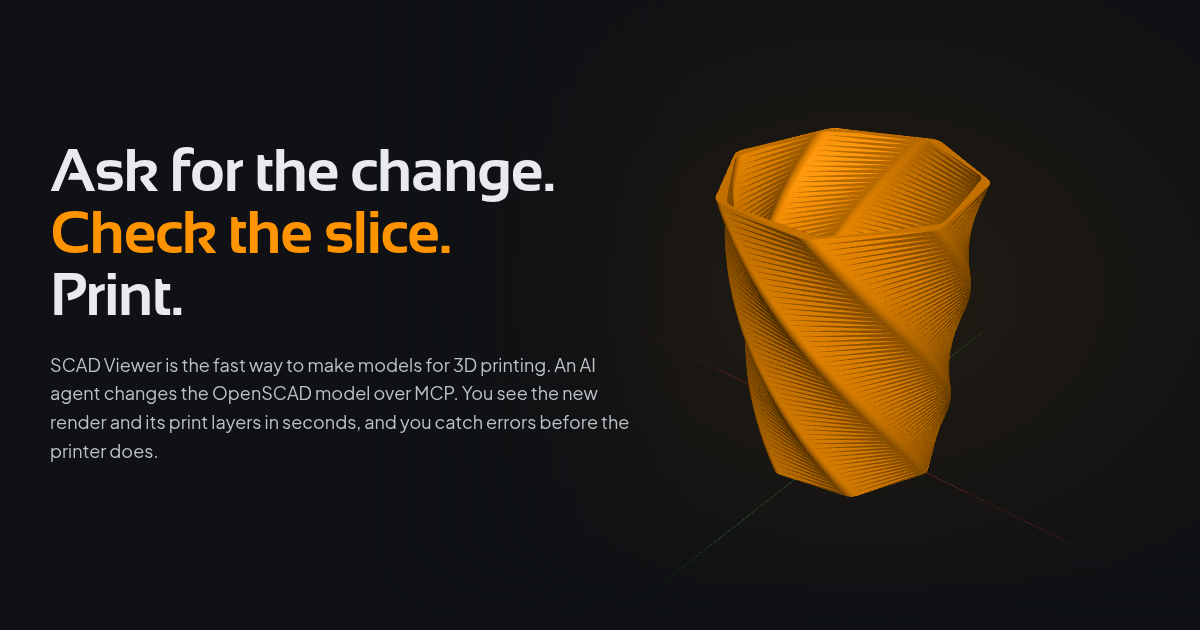
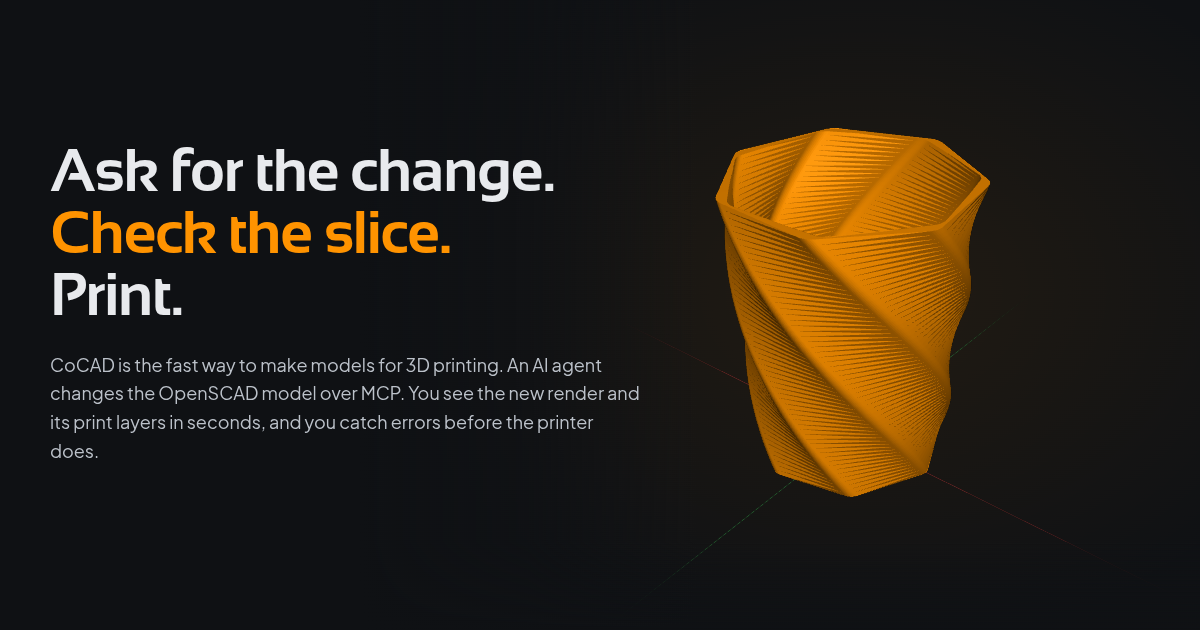
Website: rename to CoCAD, cocad.cgeosoft.com

Changed region(s): [[0.0308, 0.573, 0.5242, 0.6333], [0.0308, 0.6635, 0.5242, 0.7238]]

diff --git a/extras/website/public/index.html b/extras/website/public/index.html
@@ -3,18 +3,18 @@
 <head>
   <meta charset="UTF-8">
   <meta name="viewport" content="width=device-width, initial-scale=1.0">
-  <title>SCAD Viewer - From prompt to print-ready model</title>
+  <title>CoCAD - From prompt to print-ready model</title>
   <meta name="description" content="A free desktop app for OpenSCAD. An AI agent changes the model over MCP, you check the slice in seconds, then render or export. The fast way to make models for 3D printing.">
-  <link rel="canonical" href="https://scadviewer.cgeosoft.com/">
+  <link rel="canonical" href="https://cocad.cgeosoft.com/">
   <link rel="icon" type="image/svg+xml" href="assets/app-icon.svg">
   <link rel="apple-touch-icon" href="assets/icon-512.png">
   <meta name="theme-color" content="#0f1114">
-  <meta property="og:title" content="SCAD Viewer - Ask for the change. Check the slice. Print.">
+  <meta property="og:title" content="CoCAD - Ask for the change. Check the slice. Print.">
   <meta property="og:description" content="An AI agent changes the OpenSCAD model over MCP. You see the render and the slice in seconds. Free, MIT, for Linux, Windows and macOS.">
   <link rel="alternate" type="text/plain" href="/llms.txt" title="llms.txt">
   <meta property="og:type" content="website">
-  <meta property="og:url" content="https://scadviewer.cgeosoft.com/">
-  <meta property="og:image" content="https://scadviewer.cgeosoft.com/assets/og.png">
+  <meta property="og:url" content="https://cocad.cgeosoft.com/">
+  <meta property="og:image" content="https://cocad.cgeosoft.com/assets/og.png">
   <meta name="twitter:card" content="summary_large_image">
   <link rel="preconnect" href="https://fonts.googleapis.com">
   <link rel="preconnect" href="https://fonts.gstatic.com" crossorigin>
@@ -25,10 +25,10 @@
   {
     "@context": "https://schema.org",
     "@type": "SoftwareApplication",
-    "name": "SCAD Viewer",
+    "name": "CoCAD",
     "applicationCategory": "DesignApplication",
     "operatingSystem": "Linux, Windows, macOS",
-    "url": "https://scadviewer.cgeosoft.com/",
+    "url": "https://cocad.cgeosoft.com/",
     "license": "https://opensource.org/licenses/MIT",
     "offers": { "@type": "Offer", "price": "0", "priceCurrency": "EUR" }
   }
@@ -37,9 +37,9 @@
 <body>
   <header class="site-header">
     <div class="container nav-container">
-      <a href="/" class="brand-link" aria-label="SCAD Viewer home">
+      <a href="/" class="brand-link" aria-label="CoCAD home">
         <img src="assets/app-icon.svg" alt="" class="brand-icon" width="28" height="28">
-        <span class="brand-name">SCAD Viewer</span>
+        <span class="brand-name">CoCAD</span>
       </a>
       <nav class="main-nav" aria-label="Primary">
         <a href="#loop">The loop</a>
@@ -47,7 +47,7 @@
         <a href="#tour">Tour</a>
         <a href="#features">Features</a>
         <a href="#faq">FAQ</a>
-        <a href="https://github.com/cgeosoft/scad-viewer" target="_blank" rel="noopener noreferrer">GitHub</a>
+        <a href="https://github.com/cgeosoft/cocad" target="_blank" rel="noopener noreferrer">GitHub</a>
       </nav>
       <div class="nav-actions">
         <a href="#downloads" class="btn btn-primary">Download</a>
@@ -64,7 +64,7 @@
         <div class="hero-copy">
           <a class="hero-new" href="#mcp"><span class="pill pill-accent">MCP server</span>Your agent drives the window</a>
           <h1 class="hero-headline">Ask for the change.<br><em>Check the slice.</em><br>Print.</h1>
-          <p class="hero-lede">SCAD Viewer is the fast way to make models for 3D printing. An AI agent changes the OpenSCAD model over MCP. You see the new render and its print layers in seconds, and you catch errors before the printer does.</p>
+          <p class="hero-lede">CoCAD is the fast way to make models for 3D printing. An AI agent changes the OpenSCAD model over MCP. You see the new render and its print layers in seconds, and you catch errors before the printer does.</p>
           <div class="hero-cta">
             <div class="hero-buttons">
               <a href="#downloads" class="btn btn-big" id="primary-download-btn">
@@ -100,7 +100,7 @@
         <div class="loop-head reveal">
           <p class="label"><span class="dot"></span>The loop</p>
           <h2 class="big-title">One prompt.<br>Render, slice, <em>next prompt.</em></h2>
-          <p class="lede">Most of the time on a printable model goes to small changes and checks. SCAD Viewer keeps that loop short. Pick a prompt and watch one turn.</p>
+          <p class="lede">Most of the time on a printable model goes to small changes and checks. CoCAD keeps that loop short. Pick a prompt and watch one turn.</p>
         </div>
         <ol class="loop-stages mono reveal" aria-label="Stages of one turn">
           <li class="stage" data-loop-stage><span class="stage-num">1</span><span class="stage-name">Ask</span><span class="stage-meta">The agent edits the model</span><i class="stage-fill"></i></li>
@@ -120,7 +120,7 @@
             </div>
             <div class="view-stage">
               <canvas role="img" aria-label="Live 3D view of the example model. Drag to orbit. Click, then use the wheel to zoom."></canvas>
-              <img class="view-fallback" src="assets/img/screen-slice.webp" alt="SCAD Viewer with the slice preview of the honeycomb tray example." loading="lazy">
+              <img class="view-fallback" src="assets/img/screen-slice.webp" alt="CoCAD with the slice preview of the honeycomb tray example." loading="lazy">
               <div class="view-presets" role="group" aria-label="Camera">
                 <button type="button" class="view-btn" data-view="iso">Iso</button>
                 <button type="button" class="view-btn" data-view="top">Top</button>
@@ -196,7 +196,7 @@
         <div class="reveal">
           <p class="label"><span class="dot"></span>MCP server <span class="pill pill-accent" data-since="0.3.0">Next release</span></p>
           <h2 class="big-title">Your agent works<br>in the open window.</h2>
-          <p class="lede">The client starts <code class="inline">scad-viewer mcp</code>. Each tool call goes to the open window, so you see every change as it happens.</p>
+          <p class="lede">The client starts <code class="inline">cocad mcp</code>. Each tool call goes to the open window, so you see every change as it happens.</p>
         </div>
         <div class="mcp-grid">
           <div class="mcp-setup reveal">
@@ -204,8 +204,8 @@
               <p class="code-title mono">claude_desktop_config.json</p>
               <pre><code>{
   "mcpServers": {
-    "scad-viewer": {
-      "command": "scad-viewer",
+    "cocad": {
+      "command": "cocad",
       "args": ["mcp"]
     }
   }
@@ -213,11 +213,11 @@
             </div>
             <div class="card code-card">
               <p class="code-title mono">Claude Code</p>
-              <pre><code>claude mcp add scad-viewer -- scad-viewer mcp</code></pre>
+              <pre><code>claude mcp add cocad -- cocad mcp</code></pre>
             </div>
             <figure class="shot">
               <button type="button" class="zoom" data-zoom="assets/img/screen-agent.webp" aria-label="Enlarge screenshot">
-                <img src="assets/img/screen-agent.webp" width="1120" height="700" alt="SCAD Viewer with the vase example. A message in the view says that MCP changed sides, twist and taper." loading="lazy" decoding="async">
+                <img src="assets/img/screen-agent.webp" width="1120" height="700" alt="CoCAD with the vase example. A message in the view says that MCP changed sides, twist and taper." loading="lazy" decoding="async">
               </button>
               <figcaption class="mono">The window names each change from the agent.</figcaption>
             </figure>
@@ -269,7 +269,7 @@
         <button type="button" role="tab" class="tour-tab" data-shot="assets/img/screen-export.webp" data-text="Mesh check and export. Size, volume, triangles and open edges, then STL, 3MF or STEP.">Export</button>
       </div>
       <div class="tour-frame reveal">
-        <img data-tour-img src="assets/img/screen-slice.webp" width="1600" height="1040" alt="SCAD Viewer screenshot." loading="lazy" decoding="async">
+        <img data-tour-img src="assets/img/screen-slice.webp" width="1600" height="1040" alt="CoCAD screenshot." loading="lazy" decoding="async">
       </div>
       <p class="tour-text mono" data-tour-text aria-live="polite">Slice preview. Walls, infill and skin as round strands, with a layer slider and a time, length and weight estimate.</p>
     </section>
@@ -288,7 +288,7 @@
       </div>
       <div class="card code-card reveal">
         <p class="code-title mono">Command line</p>
-        <pre><code>scad-viewer photo model.scad -o model.png --size 1600x1200 --samples 256 --color ff9300 --finish satin --layer-lines</code></pre>
+        <pre><code>cocad photo model.scad -o model.png --size 1600x1200 --samples 256 --color ff9300 --finish satin --layer-lines</code></pre>
       </div>
     </section>
 
@@ -314,7 +314,7 @@
       <div class="reveal">
         <p class="label">Downloads</p>
         <h2 class="big-title">Get it.</h2>
-        <p class="lede">Free, MIT licensed, built from the <a href="https://github.com/cgeosoft/scad-viewer" target="_blank" rel="noopener noreferrer">public source</a>. <span class="latest-version-text mono"></span></p>
+        <p class="lede">Free, MIT licensed, built from the <a href="https://github.com/cgeosoft/cocad" target="_blank" rel="noopener noreferrer">public source</a>. <span class="latest-version-text mono"></span></p>
       </div>
       <div class="card dl-rows reveal">
         <div class="dl-row" id="card-linux">
@@ -337,7 +337,7 @@
         <p class="label"><span class="dot"></span>You also need OpenSCAD</p>
         <p class="gate-text">Install a <a href="https://openscad.org/downloads.html#snapshots" target="_blank" rel="noopener noreferrer">development snapshot</a>. It has the Manifold backend. The 2021 release also works, but a model that takes 13 s with CGAL can take 0.3 s with Manifold.</p>
       </div>
-      <p class="caption mono">Older versions and release notes are on <a href="https://github.com/cgeosoft/scad-viewer/releases" target="_blank" rel="noopener noreferrer">GitHub releases</a>.</p>
+      <p class="caption mono">Older versions and release notes are on <a href="https://github.com/cgeosoft/cocad/releases" target="_blank" rel="noopener noreferrer">GitHub releases</a>.</p>
     </section>
 
     <section class="section container faq" id="faq">
@@ -348,7 +348,7 @@
       <div class="card faq-list reveal">
         <details open>
           <summary>Which agents work with it?</summary>
-          <p>Claude Desktop, Claude Code and other MCP clients. The client talks to <code class="inline">scad-viewer mcp</code> and that process talks to the open window.</p>
+          <p>Claude Desktop, Claude Code and other MCP clients. The client talks to <code class="inline">cocad mcp</code> and that process talks to the open window.</p>
         </details>
         <details>
           <summary>Can the agent change the geometry, or only the parameters?</summary>
@@ -364,7 +364,7 @@
         </details>
         <details>
           <summary>Does my model leave my computer?</summary>
-          <p>SCAD Viewer has no account, no server and no telemetry. The MCP server listens on 127.0.0.1 only. Your AI client sends what it reads to its own model provider, so pick the client with that in mind. See the <a href="/privacy/">privacy policy</a>.</p>
+          <p>CoCAD has no account, no server and no telemetry. The MCP server listens on 127.0.0.1 only. Your AI client sends what it reads to its own model provider, so pick the client with that in mind. See the <a href="/privacy/">privacy policy</a>.</p>
         </details>
         <details>
           <summary>Do I need an agent?</summary>
@@ -380,11 +380,11 @@
 
   <footer class="site-footer">
     <div class="container status-bar mono">
-      <p>scad-viewer <span class="footer-version"></span> &middot; &copy; <span id="current-year">2026</span> <a href="https://cgeosoft.com">cgeosoft</a> &middot; MIT</p>
+      <p>cocad <span class="footer-version"></span> &middot; &copy; <span id="current-year">2026</span> <a href="https://cgeosoft.com">cgeosoft</a> &middot; MIT</p>
       <nav aria-label="Footer">
-        <a href="https://github.com/cgeosoft/scad-viewer" target="_blank" rel="noopener noreferrer">source</a>
-        <a href="https://github.com/cgeosoft/scad-viewer/issues" target="_blank" rel="noopener noreferrer">issues</a>
-        <a href="https://github.com/cgeosoft/scad-viewer/releases" target="_blank" rel="noopener noreferrer">releases</a>
+        <a href="https://github.com/cgeosoft/cocad" target="_blank" rel="noopener noreferrer">source</a>
+        <a href="https://github.com/cgeosoft/cocad/issues" target="_blank" rel="noopener noreferrer">issues</a>
+        <a href="https://github.com/cgeosoft/cocad/releases" target="_blank" rel="noopener noreferrer">releases</a>
         <a href="/privacy/">privacy</a>
         <button type="button" class="link-btn" data-cookie-settings hidden>cookies</button>
       </nav>

diff --git a/extras/website/public/privacy/index.html b/extras/website/public/privacy/index.html
@@ -3,9 +3,9 @@
 <head>
   <meta charset="UTF-8">
   <meta name="viewport" content="width=device-width, initial-scale=1.0">
-  <title>Privacy Policy - SCAD Viewer</title>
-  <meta name="description" content="What the SCAD Viewer website collects, how optional PostHog analytics work, and how to change your choice. The desktop app sends no data.">
-  <link rel="canonical" href="https://scadviewer.cgeosoft.com/privacy/">
+  <title>Privacy Policy - CoCAD</title>
+  <meta name="description" content="What the CoCAD website collects, how optional PostHog analytics work, and how to change your choice. The desktop app sends no data.">
+  <link rel="canonical" href="https://cocad.cgeosoft.com/privacy/">
   <link rel="icon" type="image/svg+xml" href="/assets/app-icon.svg">
   <meta name="theme-color" content="#0f1114">
   <link rel="preconnect" href="https://fonts.googleapis.com">
@@ -16,9 +16,9 @@
 <body data-no-consent-prompt>
   <header class="site-header">
     <div class="container nav-container">
-      <a href="/" class="brand-link" aria-label="SCAD Viewer home">
+      <a href="/" class="brand-link" aria-label="CoCAD home">
         <img src="/assets/app-icon.svg" alt="" class="brand-icon" width="28" height="28">
-        <span class="brand-name">SCAD Viewer</span>
+        <span class="brand-name">CoCAD</span>
       </a>
       <div class="nav-actions legal-nav"><a href="/" class="btn">Back to the site</a></div>
     </div>
@@ -74,8 +74,8 @@
         <table>
           <thead><tr><th>Name</th><th>Purpose</th><th>Kept for</th></tr></thead>
           <tbody>
-            <tr><td class="mono">scadviewer_consent_v1</td><td>Your analytics choice</td><td>12 months, then the site asks again</td></tr>
-            <tr><td class="mono">scadviewer_release_v1</td><td>Latest version data, so the site asks GitHub less often</td><td>Replaced after 10 minutes</td></tr>
+            <tr><td class="mono">cocad_consent_v1</td><td>Your analytics choice</td><td>12 months, then the site asks again</td></tr>
+            <tr><td class="mono">cocad_release_v1</td><td>Latest version data, so the site asks GitHub less often</td><td>Replaced after 10 minutes</td></tr>
             <tr><td class="mono">ph_*, __ph_*</td><td>Random PostHog ID and its opt-in state. Only after you accept</td><td>Until you decline or clear the storage</td></tr>
           </tbody>
         </table>
@@ -90,7 +90,7 @@
 
     <section id="app">
       <h2>The desktop app</h2>
-      <p>SCAD Viewer makes no connection to a server of ours. It has no telemetry, no update check and no account. Your models stay on your computer.</p>
+      <p>CoCAD makes no connection to a server of ours. It has no telemetry, no update check and no account. Your models stay on your computer.</p>
       <p>The MCP server listens on 127.0.0.1 only. If you connect an AI client, that client sends what it reads to its own model provider. The policy of that provider applies.</p>
     </section>
 
@@ -110,7 +110,7 @@
       <p>&copy; 2026 <a href="https://cgeosoft.com">cgeosoft</a> &middot; MIT</p>
       <nav aria-label="Footer">
         <a href="/">home</a>
-        <a href="https://github.com/cgeosoft/scad-viewer" target="_blank" rel="noopener noreferrer">source</a>
+        <a href="https://github.com/cgeosoft/cocad" target="_blank" rel="noopener noreferrer">source</a>
       </nav>
     </div>
   </footer>

diff --git a/extras/website/public/analytics.js b/extras/website/public/analytics.js
@@ -9,7 +9,7 @@
 
   const KEY = "YOUR_POSTHOG_PROJECT_API_KEY";
   const SCRIPT = "https://eu-assets.i.posthog.com/static/array.js";
-  const CONSENT_KEY = "scadviewer_consent_v1";
+  const CONSENT_KEY = "cocad_consent_v1";
   const CONSENT_MS = 365 * 24 * 60 * 60 * 1000;
   const enabled = /^phc_/.test(KEY);
 
@@ -58,7 +58,7 @@
           disable_external_dependency_loading: true,
           respect_dnt: true,
         });
-        window.posthog.register({ site: "scad-viewer" });
+        window.posthog.register({ site: "cocad" });
         resolve();
       };
       script.onerror = reject;

diff --git a/extras/website/public/404.html b/extras/website/public/404.html
@@ -3,7 +3,7 @@
 <head>
   <meta charset="UTF-8">
   <meta name="viewport" content="width=device-width, initial-scale=1.0">
-  <title>Page not found - SCAD Viewer</title>
+  <title>Page not found - CoCAD</title>
   <meta name="robots" content="noindex">
   <link rel="icon" type="image/svg+xml" href="/assets/app-icon.svg">
   <link href="https://fonts.googleapis.com/css2?family=Plus+Jakarta+Sans:wght@400;600&family=Sansation:wght@700&family=JetBrains+Mono:wght@600&display=swap" rel="stylesheet">

diff --git a/extras/website/public/script.js b/extras/website/public/script.js
@@ -5,9 +5,9 @@
 (function () {
   "use strict";
 
-  const REPO = "cgeosoft/scad-viewer";
+  const REPO = "cgeosoft/cocad";
   const RELEASES = `https://github.com/${REPO}/releases/latest`;
-  const CACHE_KEY = "scadviewer_release_v1";
+  const CACHE_KEY = "cocad_release_v1";
   const CACHE_MS = 10 * 60 * 1000;
   const reduced = window.matchMedia("(prefers-reduced-motion: reduce)").matches;
   const $$ = (sel) => Array.from(document.querySelectorAll(sel));

diff --git a/extras/website/public/style.css b/extras/website/public/style.css
@@ -1,4 +1,4 @@
-/* SCAD Viewer website. The layout follows the Portfolio website (cgeosoft).
+/* CoCAD website. The layout follows the Portfolio website (cgeosoft).
  * The tokens follow src/ui.rs, so the site looks like the app. */
 
 :root {

diff --git a/extras/website/README.md b/extras/website/README.md
@@ -1,6 +1,6 @@
-# SCAD Viewer website
+# CoCAD website
 
-Static site for <https://scadviewer.cgeosoft.com>. It uses plain HTML, CSS and JavaScript, with no build step and no library. It sets no cookies. PostHog analytics run only after consent.
+Static site for <https://cocad.cgeosoft.com>. It uses plain HTML, CSS and JavaScript, with no build step and no library. It sets no cookies. PostHog analytics run only after consent.
 
 The look follows the Portfolio website (`portfolio/extras/website`). The colors follow `src/ui.rs`.
 
@@ -47,7 +47,7 @@ The chat text is scripted. The tool names and the numbers are real. The page dra
 
 - `analytics.js` loads PostHog from the EU cloud only after the visitor accepts. Before that, the page makes no request to PostHog.
 - PostHog runs with `localStorage` persistence, so the site sets no cookies. Autocapture, session recording, surveys and feature flags are off.
-- The events are `$pageview`, `download_clicked` (os, type) and `demo_prompt` (model). Each event has `site: scad-viewer`.
+- The events are `$pageview`, `download_clicked` (os, type) and `demo_prompt` (model). Each event has `site: cocad`.
 - The choice lasts 12 months. The footer `cookies` button opens the modal again.
 - When you add a service, event or storage key, update `public/privacy/index.html`.
 
@@ -69,9 +69,9 @@ This command also applies `_headers`.
 ## Deploy
 
 1. Run `wrangler login`, or set `CLOUDFLARE_API_TOKEN`.
-2. Make the project one time: `wrangler pages project create scad-viewer --production-branch main`.
+2. Make the project one time: `wrangler pages project create cocad --production-branch main`.
 3. Deploy: `bun run deploy`, from `extras/website`. This runs `deploy.sh`, which writes the PostHog key into a staged copy. Without a key, analytics stay off and the modal does not show.
-4. In the Cloudflare dashboard, open **Workers & Pages > scad-viewer > Custom domains** and add `scadviewer.cgeosoft.com`.
+4. In the Cloudflare dashboard, open **Workers & Pages > cocad > Custom domains** and add `cocad.cgeosoft.com`.
 
 Use `deploy.sh`, not a git build. A git build has no PostHog key.
 
